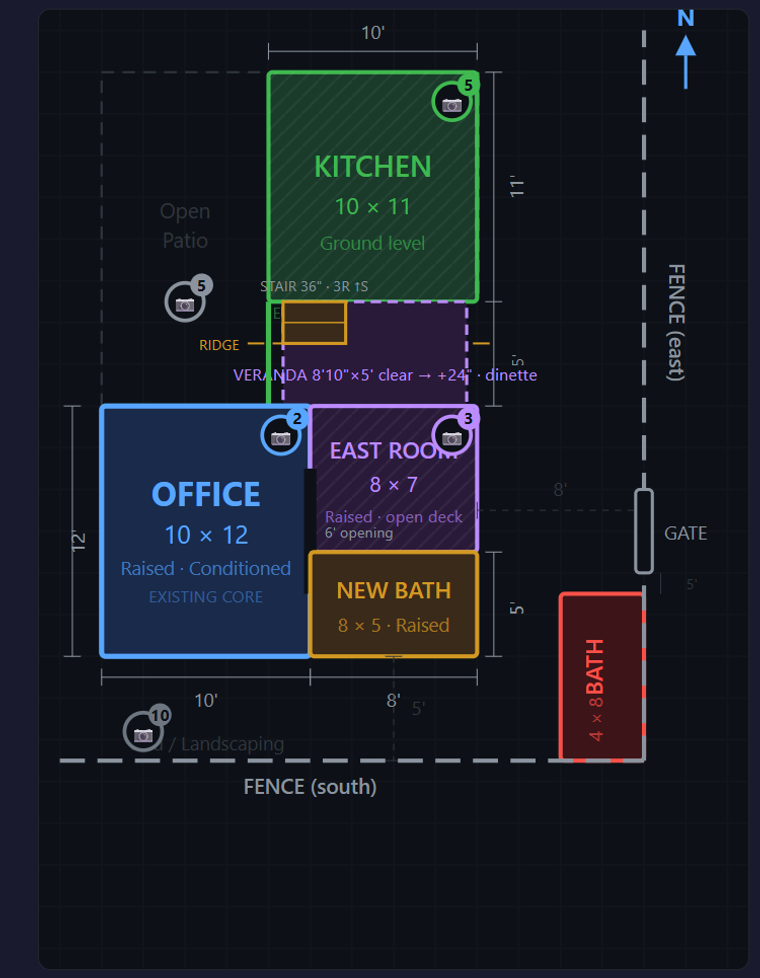
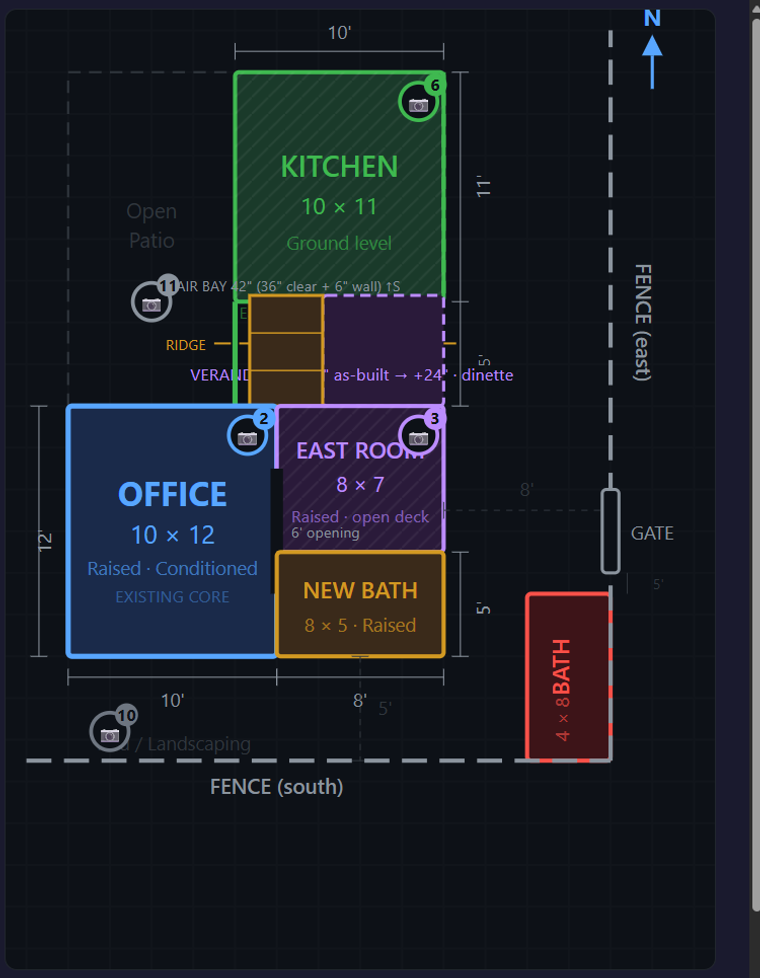
As-built dims: crawlspace 80x64in, stair bay 42in field-verified (36in clear + 6in skirt wall); drawings/planner/scope updated

diff --git a/floorplan.html b/floorplan.html
@@ -87,12 +87,12 @@ svg{max-width:100%;height:auto}
   <text x="66" y="113" text-anchor="end" font-size="7" fill="#d29922">RIDGE</text>
 
   <!-- ═══ VERANDA EXTENSION — 9'-4" wide (west wall→east-room line) × 5' deep, raised ═══ -->
-  <rect x="87" y="90" width="88" height="50" rx="2" fill="#2a1a3a" stroke="#bc8cff" stroke-width="1.5" stroke-dasharray="5,3"/>
-  <text x="136" y="128" text-anchor="middle" font-size="8" fill="#bc8cff">VERANDA 8'10"×5' clear → +24" · dinette</text>
+  <rect x="122" y="87" width="58" height="53" rx="2" fill="#2a1a3a" stroke="#bc8cff" stroke-width="1.5" stroke-dasharray="5,3"/>
+  <text x="136" y="128" text-anchor="middle" font-size="8" fill="#bc8cff">VERANDA 80"×64" as-built → +24" · dinette</text>
   <!-- 36" stair fully encompassed, NW corner, rising SOUTH -->
-  <rect x="87" y="90" width="30" height="20" fill="#3a2a1a" stroke="#d29922" stroke-width="1.5"/>
-  <line x1="87" y1="100" x2="117" y2="100" stroke="#d29922" stroke-width=".7"/>
-  <text x="102" y="85" text-anchor="middle" font-size="7" fill="#8b949e">STAIR 36" · 3R ↑S</text>
+  <rect x="87" y="87" width="35" height="53" fill="#3a2a1a" stroke="#d29922" stroke-width="1.5"/>
+  <line x1="87" y1="105" x2="122" y2="105" stroke="#d29922" stroke-width=".7"/><line x1="87" y1="123" x2="122" y2="123" stroke="#d29922" stroke-width=".7"/>
+  <text x="102" y="85" text-anchor="middle" font-size="7" fill="#8b949e">STAIR BAY 42" (36" clear + 6" wall) ↑S</text>
   <!-- West wall continued: office north wall to the veranda edge -->
   <line x1="80" y1="90" x2="80" y2="140" stroke="#3fb950" stroke-width="2.5"/>
 
@@ -208,7 +208,7 @@ svg{max-width:100%;height:auto}
 
 <div class="legend">
   <div class="legend-item"><div class="legend-swatch" style="background:#1a2a4a;border-color:#58a6ff"></div>Office 10×12 — 120 sf</div>
-  <div class="legend-item"><div class="legend-swatch" style="background:#2a1a3a;border-color:#bc8cff"></div>East Room + Veranda — 94 sf open deck</div>
+  <div class="legend-item"><div class="legend-swatch" style="background:#2a1a3a;border-color:#bc8cff"></div>East Room + Veranda — 92 sf open deck (as-built)</div>
   <div class="legend-item"><div class="legend-swatch" style="background:#3a2a1a;border-color:#d29922"></div>New Bath 8×5 — 40 sf</div>
   <div class="legend-item"><div class="legend-swatch" style="background:#1a3a2a;border-color:#3fb950"></div>Kitchen 10×11 — 110 sf</div>
   <div class="legend-item"><div class="legend-swatch" style="background:#3d1418;border-color:#f85149"></div>Exist. Bath 4×8 — 32 sf (separate)</div>
@@ -219,7 +219,7 @@ svg{max-width:100%;height:auto}
   <div style="font-size:15px;font-weight:600;color:#58a6ff;margin-bottom:8px">Total Footprint: 364 sq ft</div>
   <div style="font-size:13px;color:#8b949e;line-height:1.6">
     Enclosed 270 sf — Office: 120 · Kitchen: 110 · New Bath: 40<br>
-    Open raised deck 94 sf — East Room 8×7 + Veranda 8'10"×5' (less stair)<br>
+    Open raised deck 92 sf — East Room 8×7 + Veranda 80"×64" as-built<br>
     <span style="color:#f85149">+ Exist. Bath: 32 sf (detached)</span>
   </div>
 </div>
@@ -229,8 +229,8 @@ svg{max-width:100%;height:auto}
   📷 Tap a camera pin on the plan to see photos of that area.<br>
   North wall 16' from office face: 3' office→ridge + 13' ridge→north wall.<br>
   New bathroom 8×5 at south end of raised deck — flush with the building's south face, no extension past it.<br>
-  Veranda extension: 8'-10" clear (west wall face → east arcade wall face) × 5'-0" deep (2' past the ridge); dinette on the veranda.<br>
-  Stair: 36" wide, 3 risers, fully within the veranda's NW corner, rising SOUTH along the west wall — no projection into the kitchen. Office opening: 6' centered on east wall.
+  Veranda extension AS-BUILT 7/13: 80" wide × 64" deep crawlspace (CMU stem walls). Stair bay beside it: 42" — 36" clear stair + 6" skirt wall, rising south along the west wall; dinette on the veranda.<br>
+  Stair: 36" clear, 3 risers, in the 42" west bay beside the crawlspace (6" skirt wall between), rising SOUTH — no projection into the kitchen; ~40" landing on the deck. Office opening: 6' centered on east wall.
 </p>
 
 <div id="backdrop"></div>

diff --git a/blueprint.html b/blueprint.html
@@ -58,10 +58,10 @@ th{color:#7ab8ff;font-size:11px;text-transform:uppercase;letter-spacing:.5px}
   <text x="130" y="61" text-anchor="middle" font-size="7" fill="#6d8db3">currently open work area</text>
 
   <!-- Veranda extension (proposed) — raised, 9'-4" (wall→east-room line) × 5'; stair within NW -->
-  <rect x="87" y="90" width="88" height="50" fill="none" stroke="#5a7699" stroke-width="1" stroke-dasharray="3,3"/>
-  <text x="140" y="128" text-anchor="middle" font-size="7" fill="#5a7699">VERANDA EXT 8'10"×5' clear (proposed)</text>
-  <rect x="87" y="90" width="30" height="20" fill="none" stroke="#5a7699" stroke-width="1" stroke-dasharray="2,2"/>
-  <text x="83" y="102" text-anchor="end" font-size="6.5" fill="#5a7699">STAIR 36" 3R ↑S (within)</text>
+  <rect x="122" y="87" width="58" height="53" fill="none" stroke="#cfe3ff" stroke-width="1.4"/>
+  <text x="140" y="128" text-anchor="middle" font-size="7" fill="#5a7699">VERANDA EXT 80"×64" (AS-BUILT 7/13)</text>
+  <rect x="87" y="87" width="35" height="53" fill="none" stroke="#5a7699" stroke-width="1" stroke-dasharray="2,2"/>
+  <text x="83" y="102" text-anchor="end" font-size="6.5" fill="#5a7699">STAIR BAY 42" ↑S (proposed)</text>
   <line x1="80" y1="90" x2="80" y2="140" stroke="#7ab8ff" stroke-width="2"/>
   <!-- NE peninsula counter (proposed) — 30" off the north wall, against the east wall -->
   <rect x="154" y="-20" width="21" height="25" fill="none" stroke="#3fb950" stroke-width="1" stroke-dasharray="3,2"/>
@@ -239,7 +239,7 @@ th{color:#7ab8ff;font-size:11px;text-transform:uppercase;letter-spacing:.5px}
     <li><b>[12] Fireplace / pizza oven</b> — brick base, arched mouth, domed top, set at 45° <b>directly under the chimney at the NW corner</b>; the dome is plan-centered on the NW pillar. <b>The chimney brick stops at the 8' spring line like the other pillars — a concealed flue pipe runs up through the roof</b> (only a stub shows above). Brick pillars stop at the arch spring line — arches are all stucco. <span class="src">(IMG_2633, 2642, 2643 · owner 7/9)</span></li>
     <li><b>[13] Main roof</b> — one continuous low gable, <b>1' rise per 10' run</b>, ridge E-W <b>3' north of the office north wall</b>; south plane 16' (18" S overhang), north plane 20' (extends ~5' past the arch wall); 20' wide E-W (1' overhangs both sides). <span class="src">(owner 7/9, 7/12)</span></li>
     <li><b>[14] East arch wall — NEW</b> (proposed, dashed): <b>regular-thickness framed wall</b> with its <b>outer face on the building line</b> (roof overhangs 1' beyond); brick <b>pilaster facades</b> (veneer for effect — not structural masses, interior real estate stays clear) at the <b>ridge line and south end</b>; the NE corner uses the real existing north-wall pillar; <b>arches span the full bays, springing from the 8' pilaster tops</b>. Arches match the calibrated north proportions: <b>spring at the 8' pillar tops, flat segmental rise ~1'-4", apex ~9'-4"</b>. North arch = glazed with the <b>apartment entry door</b>; south arch = <b>half-height wall (3.5' above deck) with a window band up to the arch</b>.  <span class="src">(owner 7/9-12)</span></li>
-    <li><b>[15] Plan revision 7/12</b> (proposed, dashed): new bath <b>8'×5' at the south end of the raised deck, flush with the building's south face</b> (southern bump-out deleted); <b>veranda extension 8'-10" clear width (west wall face → east arcade wall face; 10' nominal bay) × 5'-0" deep</b> (2' past the ridge), <b>west side solid wall</b> carrying the stair handrail; <b>36" stair fully within the NW corner, rising south — zero projection into the kitchen</b> (two 12" treads + the deck as third step; 36" top landing); dinette relocates onto the veranda; kitchen slab at grade runs <b>north wall → veranda edge, 10'×11'</b>. Kitchen counters: run between fridge and north wall (NW, west wall), <b>sink counter starting at the middle of the north wall and running the eastern arch</b>, plus a <b>standard-depth peninsula projecting 30" from the north wall at the far NE corner</b>. <span class="src">(owner 7/12)</span></li>
+    <li><b>[15] Plan revision 7/12</b> (proposed, dashed): new bath <b>8'×5' at the south end of the raised deck, flush with the building's south face</b> (southern bump-out deleted); <b>veranda extension AS-BUILT 7/13: 80" wide × 64" deep</b> CMU crawlspace (both courses laid); <b>stair bay beside it: 42" clear field-verified — 36" stair + 6" skirt wall</b>, rising south along the west wall, zero kitchen projection (two 12" treads + deck as third step; ~40" landing); dinette relocates onto the veranda; kitchen slab at grade runs <b>north wall → veranda edge, 10'×11'</b>. Kitchen counters: run between fridge and north wall (NW, west wall), <b>sink counter starting at the middle of the north wall and running the eastern arch</b>, plus a <b>standard-depth peninsula projecting 30" from the north wall at the far NE corner</b>. <span class="src">(owner 7/12)</span></li>
   </ul>
 </div>
 